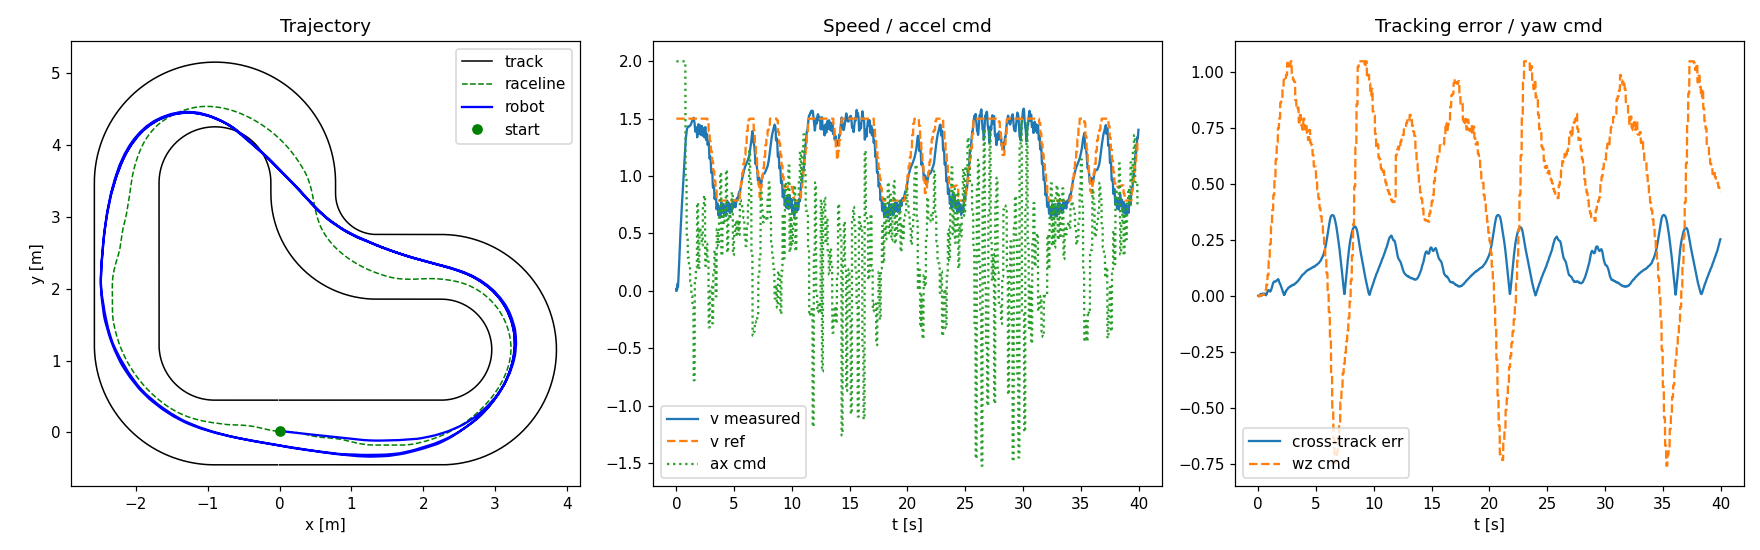
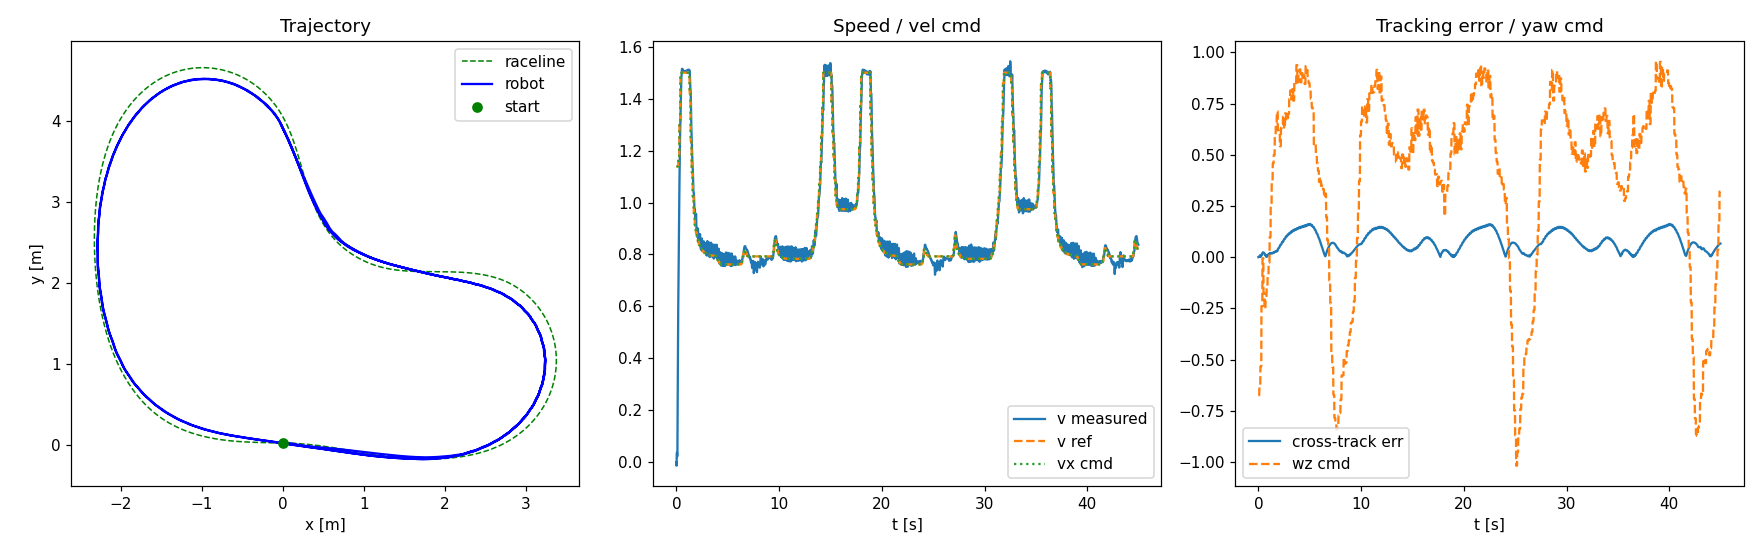
fix vel control , new policy

diff --git a/scripts/mujoco_track_sim/accel_pursuit_planner.py b/scripts/mujoco_track_sim/accel_pursuit_planner.py
@@ -19,6 +19,8 @@ BLEND_MARGIN = 0.9
 WZ_MAX = np.pi / 3
 V_MAX = 1.5
 V_MIN = 0.1
+CORNER_WZ_FRAC = 0.7
+BRAKE_LOOKAHEAD_M = 0.9
 
 
 class _SpeedProfile:
@@ -75,6 +77,17 @@ class AccelPursuitPlanner:
         self.lookahead = lookahead_m
         self.v_max = v_max
         self.track_length = float(ss[-1])
+        self._ss = ss
+        self._N = len(ss)
+        kappa = np.abs(np.gradient(np.unwrap(theta)) / (np.gradient(ss) + 1e-9))
+        v_curve = CORNER_WZ_FRAC * WZ_MAX / (kappa + 1e-9)
+        n_pre = max(1, int(BRAKE_LOOKAHEAD_M / (self.track_length / self._N)))
+        v_curve = minimum_filter1d(np.tile(v_curve, 3), size=2 * n_pre + 1)[self._N:2 * self._N]
+        self._v_curve = np.clip(v_curve, V_MIN, v_max)
+
+    def _curve_speed(self, s):
+        idx = np.searchsorted(self._ss, np.asarray(s) % self.track_length) % self._N
+        return self._v_curve[idx]
 
     def plan(self, x, y, psi, v):
         seq, info = self.plan_horizon(x, y, psi, v)
@@ -89,6 +102,7 @@ class AccelPursuitPlanner:
         dist = np.maximum(np.hypot(dx, dy), 1e-3)
         alpha = ((np.arctan2(dy, dx) - psi) + np.pi) % (2 * np.pi) - np.pi
         v_ref = np.minimum(self._speed(s_steps), self.v_max)
+        v_ref = np.minimum(v_ref, self._curve_speed(s_steps))
         wz = np.clip(2.0 * np.maximum(v_ref, 0.1) * np.sin(alpha) / dist + KP_HDG * alpha,
                      -WZ_MAX, WZ_MAX)
         vx = np.clip(v_ref, V_MIN, self.v_max)

diff --git a/scripts/mujoco_track_sim/policy_runner.py b/scripts/mujoco_track_sim/policy_runner.py
@@ -1,6 +1,6 @@
 # Copyright (c) 2024-2026 Ziqi Fan
 # SPDX-License-Identifier: Apache-2.0
-"""Deploy-side adapter for the Go2W smooth-steer policy (54-d obs -> 16-d action)."""
+"""Deploy-side adapter for the Go2W smooth-steer policy (57-d obs -> 16-d action)."""
 
 from __future__ import annotations
 
@@ -19,6 +19,7 @@ JOINT_ORDER = LEG_JOINTS + WHEEL_JOINTS
 DEFAULT_Q = np.array([0.0, 0.8, -1.5] * 4 + [0.0, 0.0, 0.0, 0.0], dtype=np.float64)
 LEG_SCALE = np.array([0.125 if "hip" in j else 0.25 for j in LEG_JOINTS], dtype=np.float64)
 WHEEL_VEL_SCALE = 5.0
+LIN_VEL_SCALE = 1.0
 ANG_VEL_SCALE = 0.25
 JOINT_POS_SCALE = 1.0
 JOINT_VEL_SCALE = 0.05
@@ -34,10 +35,11 @@ class PolicyRunner:
     def reset(self):
         self.last_action[:] = 0.0
 
-    def build_obs(self, base_ang_vel, command, joint_pos, joint_vel):
+    def build_obs(self, base_lin_vel, base_ang_vel, command, joint_pos, joint_vel):
         joint_pos_rel = np.asarray(joint_pos, dtype=np.float64) - DEFAULT_Q
         joint_pos_rel[self.n_legs:] = 0.0
         obs = np.concatenate([
+            np.asarray(base_lin_vel, dtype=np.float64) * LIN_VEL_SCALE,
             np.asarray(base_ang_vel, dtype=np.float64) * ANG_VEL_SCALE,
             np.asarray(command, dtype=np.float64),
             joint_pos_rel * JOINT_POS_SCALE,

diff --git a/scripts/mujoco_track_sim/run_mujoco_track_sim.py b/scripts/mujoco_track_sim/run_mujoco_track_sim.py
@@ -94,10 +94,11 @@ class Sim:
         return float(pos[0]), float(pos[1]), quat_to_yaw(quat), float(vbody[0])
 
     def read_policy_state(self):
+        lin_vel = self._sensor("imu_vel")
         gyro = self._sensor("imu_gyro")
         jpos = self.data.qpos[self.qpos_adr].copy()
         jvel = self.data.qvel[self.qvel_adr].copy()
-        return gyro, jpos, jvel
+        return lin_vel, gyro, jpos, jvel
 
     def apply_action(self, action):
         leg_q_des, wheel_dq_des = self.runner.decode(action)
@@ -129,8 +130,8 @@ class Sim:
                 if k % PLAN_EVERY_N_CONTROL == 0:
                     command, last_info = self.planner.plan(x, y, psi, v)
 
-                gyro, jpos, jvel = self.read_policy_state()
-                obs = self.runner.build_obs(gyro, command, jpos, jvel)
+                lin_vel, gyro, jpos, jvel = self.read_policy_state()
+                obs = self.runner.build_obs(lin_vel, gyro, command, jpos, jvel)
                 action = self.runner.act(obs)
                 self.apply_action(action)
                 for _ in range(CONTROL_DECIMATION):

diff --git a/scripts/mujoco_track_sim/README.md b/scripts/mujoco_track_sim/README.md
@@ -29,7 +29,7 @@ cd ~/robot_lab/scripts/mujoco_track_sim
 python gen_go2w_mjcf.py                         # regenerate the MJCF (only after URDF changes)
 python run_mujoco_track_sim.py --viewer         # interactive viewer (real-time, camera follows robot)
 python run_mujoco_track_sim.py --duration 60    # headless, saves track_result.png
-python run_mujoco_track_sim.py --policy <path/to/exported/policy.pt> --viewer
+python run_mujoco_track_sim.py --policy ~/robot_lab/logs/rsl_rl/unitree_go2w_smooth_steer/2026-06-02_12-20-32/exported/policy.pt --viewer
 ```
 Useful flags: `--policy <path>`, `--duration <sec>`, `--raceline <npz>`, `--no_real_time`
 (unthrottle the viewer), `--plot <png>`.
